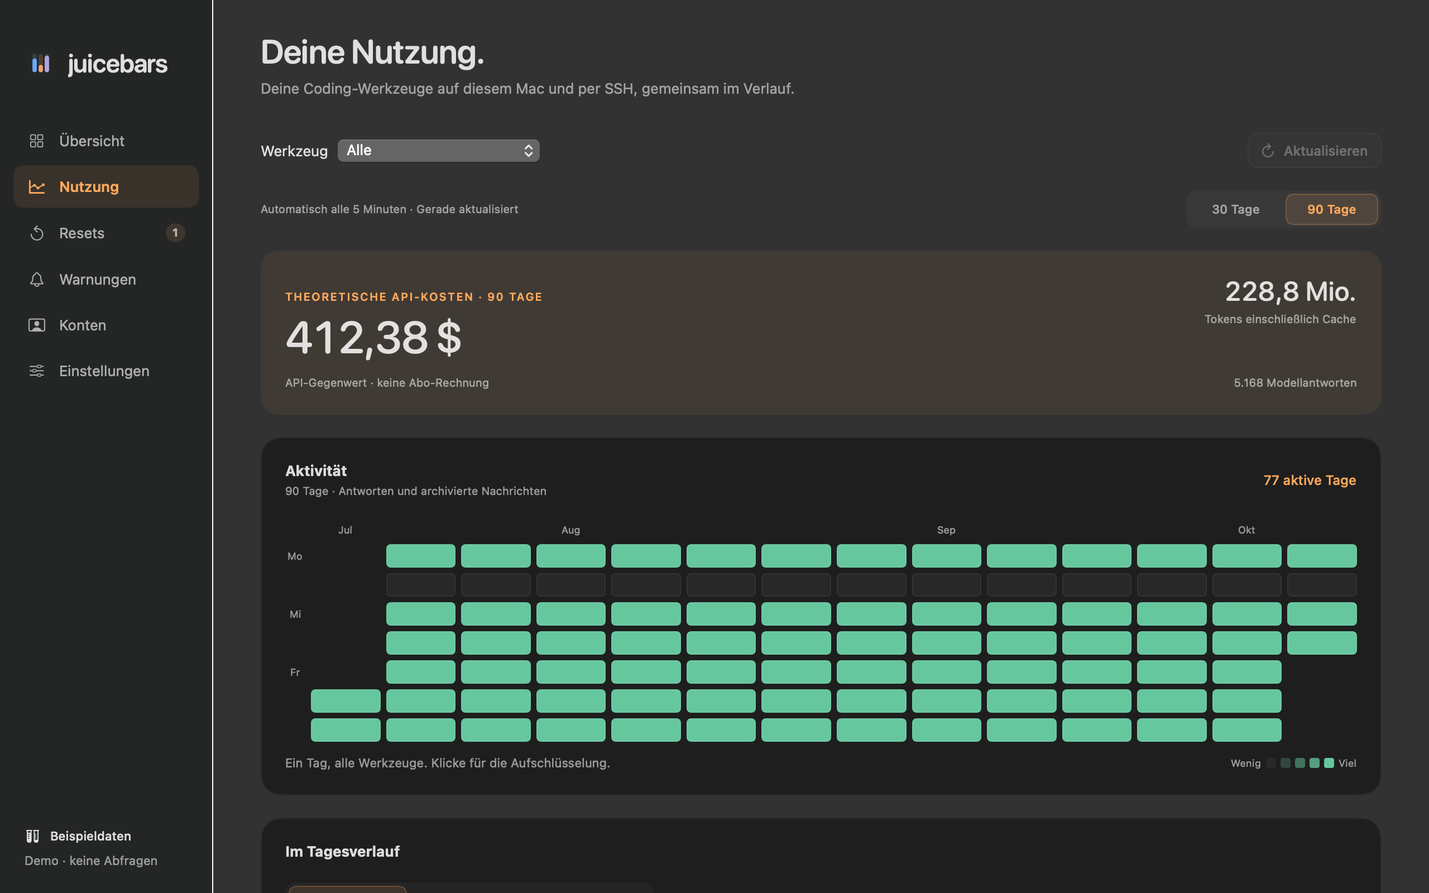
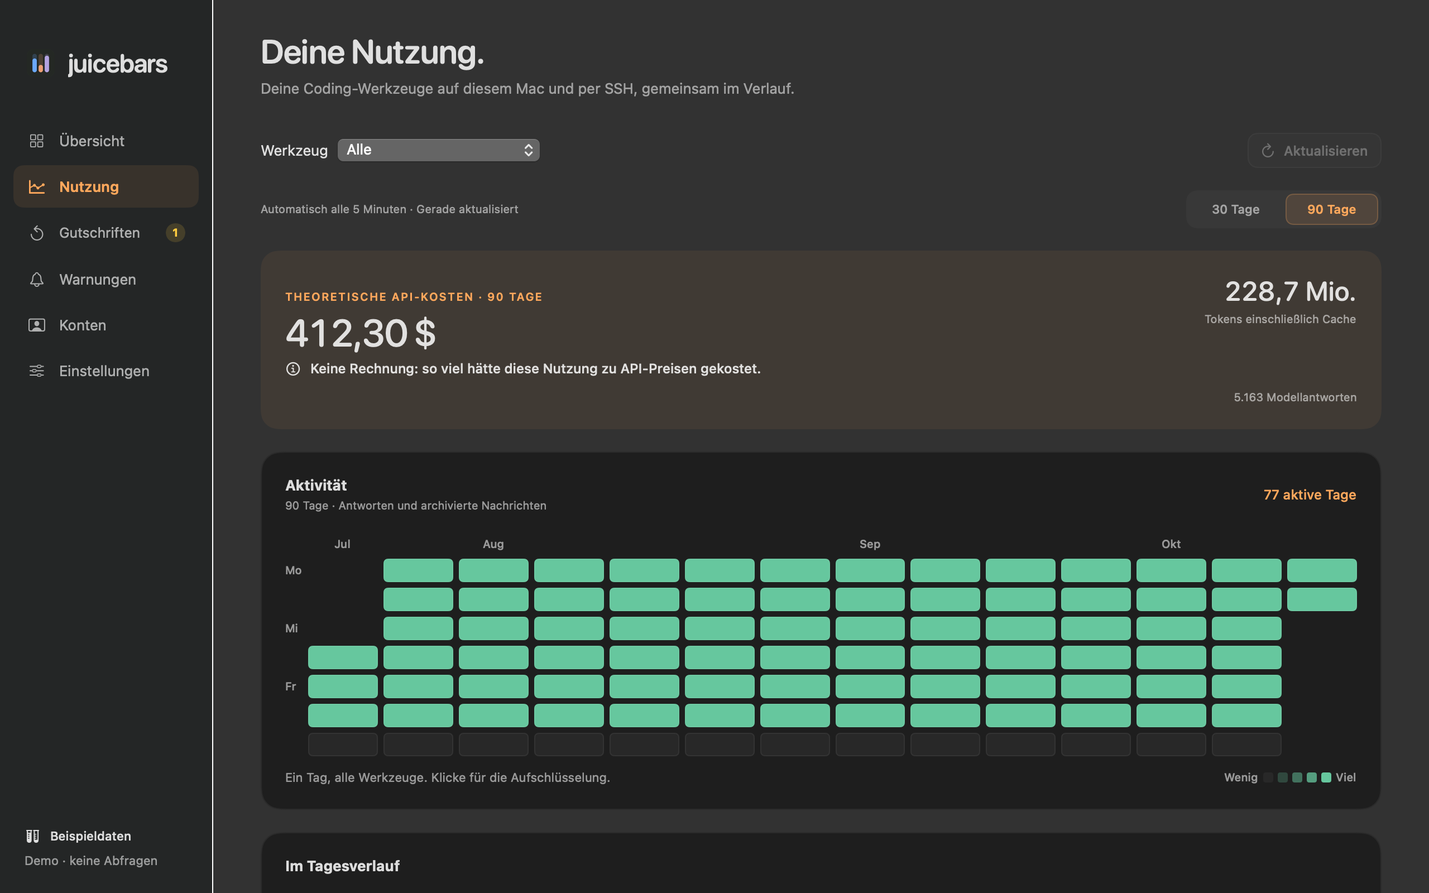
Publish 0.1.11 downloads and refresh screenshots
Screenshots now render with a fixed region per language, since dates and
numbers follow the host region since 0.1.11.

diff --git a/site/help.html b/site/help.html
@@ -1,1 +1,1 @@
-<!doctype html><html lang="en"><head><meta charset="utf-8"><meta name="viewport" content="width=device-width,initial-scale=1"><title>Setup & help · Juicebars</title><meta name="description" content="Install Juicebars, connect Codex, Claude and OpenCode, and understand your usage data."><link rel="icon" href="assets/juicebar.svg?v=juicebars"><link rel="stylesheet" href="style.css"></head><body><a class="skip" href="#main">Skip to content</a><header class="wrap"><a class="brand" href="./"><img src="assets/juicebar.svg?v=juicebars" alt="" width="30" height="30">juicebars</a><nav aria-label="Main"><a href="https://github.com/Rasalas/juicebar/issues">Report a problem <svg class="icon" viewBox="0 0 24 24" fill="none" stroke="currentColor" stroke-width="1.8" stroke-linecap="round" stroke-linejoin="round" aria-hidden="true" focusable="false"><path d="M14 3h7v7m0-7L10 14"/><path d="M10 3H4v17h17v-6"/></svg></a></nav></header><main id="main" class="wrap article"><h1>Setup & help.</h1><p>Juicebars uses the tools and accounts you already have. It does not require a separate account or send prompts to check your limits.</p><h2>Install on your Mac</h2><ol><li>Download <a href="https://github.com/Rasalas/juicebar/releases/download/v0.1.10/Juicebar-0.1.10-macOS-arm64.dmg">Juicebars 0.1.10 for Mac</a>. The current build requires Apple Silicon and macOS 14 or later.</li><li>Open the disk image and drag Juicebars to Applications. Eject the disk image, then open Juicebars from Applications.</li><li>Open Accounts and connect your providers. Enable notifications under Warnings when you are ready.</li></ol><p class="note">The official direct download is Developer ID signed and notarized. You should not need to disable Gatekeeper. Source builds are a separate option for contributors.</p><h2>Connect a provider</h2><details open><summary>ChatGPT / Codex subscription</summary><p>Install the <a href="https://developers.openai.com/codex/cli/">Codex CLI</a> and run <code>codex login</code> in Terminal. Choose your ChatGPT account. In Juicebars, add Codex and save. CLI paths are detected automatically; a custom program or profile folder can be set under Advanced setup.</p></details><details><summary>Claude subscription</summary><p>Install <a href="https://code.claude.com/docs/en/setup">Claude Code</a> and run <code>claude auth login</code>. Add Claude in Juicebars and save. The CLI must be signed in to the subscription you want to monitor. A browser-only sign-in is not enough. Juicebars prefers the native installation at <code>~/.local/bin/claude</code> when multiple copies are installed. You can select a specific CLI under Advanced setup.</p></details><details><summary>OpenCode Go</summary><p>Choose the correct account and workspace in the <a href="https://opencode.ai/console/">OpenCode console</a>. Juicebars can read an existing local <code>opencode-go</code> API key, or you can save a Go key in its account form. The form tells you when it finds a local key.</p><p>The newer <code>opencode console login</code> session is not yet a supported source for this quota integration. A 403 or EntitlementError means the key does not report Go access; check its workspace and subscription assignment. It does not, on its own, prove your paid subscription expired.</p></details><details><summary>OpenCode Zen and API accounts</summary><p>Zen activity comes from the local OpenCode database. Juicebars does not currently claim a verified Zen balance. OpenAI and Anthropic organization cost reports require an admin key; a normal model API key is not enough. OpenRouter uses a management key for account-wide balance.</p><p>These are separate from ChatGPT and Claude subscriptions. A budget entered in Juicebars is your warning budget, not a provider-imposed cap.</p></details><h2>Local usage history</h2><p>Usage imports Codex, Claude, OpenCode, Pi, Gemini CLI, Cline SDK v1, Roo Code, current Kilo and Qwen Code logs. Add a folder and select its format under Usage when your logs are outside the usual locations. Existing SSH hosts can supply the same supported formats remotely.</p><h2>Understand the numbers</h2><details><summary>Why is a quota line flat?</summary><p>Quota history records provider measurements from the time Juicebars starts collecting them. A flat line means the reported percentage did not change. Token logs cannot reconstruct subscription percentages.</p></details><details><summary>Where does the API cost come from?</summary><p>Juicebars estimates the API equivalent of recorded input, output and cache tokens at current standard prices. It shows coverage and leaves unknown models unpriced. This is not what you paid for a subscription. Confirmed model aliases and prices can update through a signed data catalog. That check can be disabled in Settings.</p></details><details><summary>Why are older chats or dates missing?</summary><p>Usage imports automatically at launch and every five minutes. Available local and SSH logs cover up to 90 days. Logs deleted before the first import, unconnected devices and browser-only chats may be absent. Older Claude daily statistics can fill gaps, but often lack enough detail for a cost estimate.</p></details><details><summary>How do I add another computer?</summary><p>Under Usage, add an existing SSH alias such as <code>workstation</code>. The host needs Python 3, a known host key and working key-based login. Juicebars rejects password prompts and does not install anything remotely. Only usage metadata is returned.</p></details><details><summary>Notifications appear only in Notification Center</summary><p>Allow Juicebars banners and sound in macOS System Settings → Notifications. Check Focus and screen-sharing settings too. Then enable notifications and sound inside Juicebars and send a test notification. macOS controls whether a banner can appear.</p></details><details><summary>Will updates cost money?</summary><p>No. Direct downloads and their updates stay free. Mac App Store distribution is on hold while equivalent, provider-compliant integrations remain unresolved.</p></details><h2>Something still looks wrong?</h2><p><a href="https://github.com/Rasalas/juicebar/issues">Open an issue</a> with your macOS version, Juicebars version, provider and what you expected to see. Redact account names from screenshots and never attach API keys, credentials or raw conversation logs.</p><p>For a security issue, use <a href="https://github.com/Rasalas/juicebar/security/advisories/new">private vulnerability reporting</a>.</p></main><footer class="wrap"><a href="./"><svg class="icon" viewBox="0 0 24 24" fill="none" stroke="currentColor" stroke-width="1.8" stroke-linecap="round" stroke-linejoin="round" aria-hidden="true" focusable="false"><path d="M20 12H4m6-6-6 6 6 6"/></svg> Back to Juicebars</a><a href="https://github.com/Rasalas/juicebar/blob/main/PRIVACY.md">Privacy</a></footer></body></html>
+<!doctype html><html lang="en"><head><meta charset="utf-8"><meta name="viewport" content="width=device-width,initial-scale=1"><title>Setup & help · Juicebars</title><meta name="description" content="Install Juicebars, connect Codex, Claude and OpenCode, and understand your usage data."><link rel="icon" href="assets/juicebar.svg?v=juicebars"><link rel="stylesheet" href="style.css"></head><body><a class="skip" href="#main">Skip to content</a><header class="wrap"><a class="brand" href="./"><img src="assets/juicebar.svg?v=juicebars" alt="" width="30" height="30">juicebars</a><nav aria-label="Main"><a href="https://github.com/Rasalas/juicebar/issues">Report a problem <svg class="icon" viewBox="0 0 24 24" fill="none" stroke="currentColor" stroke-width="1.8" stroke-linecap="round" stroke-linejoin="round" aria-hidden="true" focusable="false"><path d="M14 3h7v7m0-7L10 14"/><path d="M10 3H4v17h17v-6"/></svg></a></nav></header><main id="main" class="wrap article"><h1>Setup & help.</h1><p>Juicebars uses the tools and accounts you already have. It does not require a separate account or send prompts to check your limits.</p><h2>Install on your Mac</h2><ol><li>Download <a href="https://github.com/Rasalas/juicebar/releases/download/v0.1.11/Juicebar-0.1.11-macOS-arm64.dmg">Juicebars 0.1.11 for Mac</a>. The current build requires Apple Silicon and macOS 14 or later.</li><li>Open the disk image and drag Juicebars to Applications. Eject the disk image, then open Juicebars from Applications.</li><li>Open Accounts and connect your providers. Enable notifications under Warnings when you are ready.</li></ol><p class="note">The official direct download is Developer ID signed and notarized. You should not need to disable Gatekeeper. Source builds are a separate option for contributors.</p><h2>Connect a provider</h2><details open><summary>ChatGPT / Codex subscription</summary><p>Install the <a href="https://developers.openai.com/codex/cli/">Codex CLI</a> and run <code>codex login</code> in Terminal. Choose your ChatGPT account. In Juicebars, add Codex and save. CLI paths are detected automatically; a custom program or profile folder can be set under Advanced setup.</p></details><details><summary>Claude subscription</summary><p>Install <a href="https://code.claude.com/docs/en/setup">Claude Code</a> and run <code>claude auth login</code>. Add Claude in Juicebars and save. The CLI must be signed in to the subscription you want to monitor. A browser-only sign-in is not enough. Juicebars prefers the native installation at <code>~/.local/bin/claude</code> when multiple copies are installed. You can select a specific CLI under Advanced setup.</p></details><details><summary>OpenCode Go</summary><p>Choose the correct account and workspace in the <a href="https://opencode.ai/console/">OpenCode console</a>. Juicebars can read an existing local <code>opencode-go</code> API key, or you can save a Go key in its account form. The form tells you when it finds a local key.</p><p>The newer <code>opencode console login</code> session is not yet a supported source for this quota integration. A 403 or EntitlementError means the key does not report Go access; check its workspace and subscription assignment. It does not, on its own, prove your paid subscription expired.</p></details><details><summary>OpenCode Zen and API accounts</summary><p>Zen activity comes from the local OpenCode database. Juicebars does not currently claim a verified Zen balance. OpenAI and Anthropic organization cost reports require an admin key; a normal model API key is not enough. OpenRouter uses a management key for account-wide balance.</p><p>These are separate from ChatGPT and Claude subscriptions. A budget entered in Juicebars is your warning budget, not a provider-imposed cap.</p></details><h2>Local usage history</h2><p>Usage imports Codex, Claude, OpenCode, Pi, Gemini CLI, Cline SDK v1, Roo Code, current Kilo and Qwen Code logs. Add a folder and select its format under Usage when your logs are outside the usual locations. Existing SSH hosts can supply the same supported formats remotely.</p><h2>Understand the numbers</h2><details><summary>Why is a quota line flat?</summary><p>Quota history records provider measurements from the time Juicebars starts collecting them. A flat line means the reported percentage did not change. Token logs cannot reconstruct subscription percentages.</p></details><details><summary>Where does the API cost come from?</summary><p>Juicebars estimates the API equivalent of recorded input, output and cache tokens at current standard prices. It shows coverage and leaves unknown models unpriced. This is not what you paid for a subscription. Confirmed model aliases and prices can update through a signed data catalog. That check can be disabled in Settings.</p></details><details><summary>Why are older chats or dates missing?</summary><p>Usage imports automatically at launch and every five minutes. Available local and SSH logs cover up to 90 days. Logs deleted before the first import, unconnected devices and browser-only chats may be absent. Older Claude daily statistics can fill gaps, but often lack enough detail for a cost estimate.</p></details><details><summary>How do I add another computer?</summary><p>Under Usage, add an existing SSH alias such as <code>workstation</code>. The host needs Python 3, a known host key and working key-based login. Juicebars rejects password prompts and does not install anything remotely. Only usage metadata is returned.</p></details><details><summary>Notifications appear only in Notification Center</summary><p>Allow Juicebars banners and sound in macOS System Settings → Notifications. Check Focus and screen-sharing settings too. Then enable notifications and sound inside Juicebars and send a test notification. macOS controls whether a banner can appear.</p></details><details><summary>Will updates cost money?</summary><p>No. Direct downloads and their updates stay free. Mac App Store distribution is on hold while equivalent, provider-compliant integrations remain unresolved.</p></details><h2>Something still looks wrong?</h2><p><a href="https://github.com/Rasalas/juicebar/issues">Open an issue</a> with your macOS version, Juicebars version, provider and what you expected to see. Redact account names from screenshots and never attach API keys, credentials or raw conversation logs.</p><p>For a security issue, use <a href="https://github.com/Rasalas/juicebar/security/advisories/new">private vulnerability reporting</a>.</p></main><footer class="wrap"><a href="./"><svg class="icon" viewBox="0 0 24 24" fill="none" stroke="currentColor" stroke-width="1.8" stroke-linecap="round" stroke-linejoin="round" aria-hidden="true" focusable="false"><path d="M20 12H4m6-6-6 6 6 6"/></svg> Back to Juicebars</a><a href="https://github.com/Rasalas/juicebar/blob/main/PRIVACY.md">Privacy</a></footer></body></html>

diff --git a/site/index.html b/site/index.html
@@ -12,19 +12,19 @@
 <header class="wrap"><a class="brand" href="./"><img src="assets/juicebar.svg?v=juicebars" alt="" width="30" height="30">juicebars</a><nav aria-label="Main"><a href="#how">How it works</a><a href="help.html">Setup & help</a><a href="https://github.com/Rasalas/juicebar">Source <svg class="icon" viewBox="0 0 24 24" fill="none" stroke="currentColor" stroke-width="1.8" stroke-linecap="round" stroke-linejoin="round" aria-hidden="true" focusable="false"><path d="M14 3h7v7m0-7L10 14"/><path d="M10 3H4v17h17v-6"/></svg></a></nav></header>
 <main id="main">
 <section class="hero wrap">
-<div class="intro"><h1>Know<br>what’s <em>left.</em></h1><p class="lead">Codex. Claude. OpenCode.<br>Your limits together, with a heads-up before you run dry.</p><div class="actions"><a class="button" data-download href="https://github.com/Rasalas/juicebar/releases/download/v0.1.10/Juicebar-0.1.10-macOS-arm64.dmg"><span data-download-label>Download for Mac</span> <svg class="icon" viewBox="0 0 24 24" fill="none" stroke="currentColor" stroke-width="1.8" stroke-linecap="round" stroke-linejoin="round" aria-hidden="true" focusable="false"><path d="M12 3v12m-5-5 5 5 5-5"/><path d="M5 15v5h14v-5"/></svg></a><a class="quiet" href="#how">Take a look <svg class="icon" viewBox="0 0 24 24" fill="none" stroke="currentColor" stroke-width="1.8" stroke-linecap="round" stroke-linejoin="round" aria-hidden="true" focusable="false"><path d="M7 7l10 10M7 17h10V7"/></svg></a></div><p class="small"><span data-download-status>Apple Silicon · macOS 14 or later</span><br>Free · Version 0.1.10 · Signed & notarized</p><details class="download-options"><summary>Downloads</summary><a href="https://github.com/Rasalas/juicebar/releases/download/v0.1.10/Juicebar-0.1.10-macOS-arm64.dmg">Mac · Apple Silicon <span>0.1.10 · DMG, 2.8 MB</span></a><p>Intel, Windows and Linux builds are not available yet.</p></details><p class="release-links"><a href="https://github.com/Rasalas/juicebar/releases/tag/v0.1.10">Release notes</a><a href="https://github.com/Rasalas/juicebar/releases/download/v0.1.10/SHA256SUMS.txt">SHA-256 checksum</a></p></div>
+<div class="intro"><h1>Know<br>what’s <em>left.</em></h1><p class="lead">Codex. Claude. OpenCode.<br>Your limits together, with a heads-up before you run dry.</p><div class="actions"><a class="button" data-download href="https://github.com/Rasalas/juicebar/releases/download/v0.1.11/Juicebar-0.1.11-macOS-arm64.dmg"><span data-download-label>Download for Mac</span> <svg class="icon" viewBox="0 0 24 24" fill="none" stroke="currentColor" stroke-width="1.8" stroke-linecap="round" stroke-linejoin="round" aria-hidden="true" focusable="false"><path d="M12 3v12m-5-5 5 5 5-5"/><path d="M5 15v5h14v-5"/></svg></a><a class="quiet" href="#how">Take a look <svg class="icon" viewBox="0 0 24 24" fill="none" stroke="currentColor" stroke-width="1.8" stroke-linecap="round" stroke-linejoin="round" aria-hidden="true" focusable="false"><path d="M7 7l10 10M7 17h10V7"/></svg></a></div><p class="small"><span data-download-status>Apple Silicon · macOS 14 or later</span><br>Free · Version 0.1.11 · Signed & notarized</p><details class="download-options"><summary>Downloads</summary><a href="https://github.com/Rasalas/juicebar/releases/download/v0.1.11/Juicebar-0.1.11-macOS-arm64.dmg">Mac · Apple Silicon <span>0.1.11 · DMG, 2.8 MB</span></a><p>Intel, Windows and Linux builds are not available yet.</p></details><p class="release-links"><a href="https://github.com/Rasalas/juicebar/releases/tag/v0.1.11">Release notes</a><a href="https://github.com/Rasalas/juicebar/releases/download/v0.1.11/SHA256SUMS.txt">SHA-256 checksum</a></p></div>
 <div class="hero-art"><div class="menubar" role="img" aria-label="Menu bar preview with actual Juicebars artwork. From right to left: battery, date and time, Control Center, Wi-Fi, and Juicebars's Codex, Claude and OpenCode quota bars.">
   <img height="44" width="126" class="menu-limits" src="assets/menu-limits.png" alt="">
   <svg class="system-icon wifi" viewBox="0 0 24 18" aria-hidden="true"><g fill="none" stroke="currentColor" stroke-width="2.4" stroke-linecap="round"><path d="M2 5a16 16 0 0 1 20 0M5.5 9a10.5 10.5 0 0 1 13 0M9 13a5 5 0 0 1 6 0"/></g><circle cx="12" cy="16" r="1.3" fill="currentColor"/></svg>
   <svg class="system-icon control-center" viewBox="0 0 22 20" aria-hidden="true"><rect x="1" y="1" width="20" height="7" rx="3.5" fill="currentColor"/><circle cx="5" cy="4.5" r="2.2" fill="#444a43"/><rect x="1.7" y="12.7" width="18.6" height="5.6" rx="2.8" stroke="currentColor" stroke-width="1.4" fill="none"/><circle cx="17" cy="15.5" r="2" fill="currentColor"/></svg>
   <span class="menu-date">Fri 25 Sep <span>09:41</span></span>
   <svg class="system-icon battery" viewBox="0 0 29 14" aria-hidden="true"><rect x="1" y="1" width="24" height="12" rx="3" stroke="currentColor" stroke-opacity=".65" stroke-width="1.3" fill="none"/><rect x="3" y="3" width="17" height="8" rx="1.4" fill="currentColor"/><path d="M27 5v4" stroke="currentColor" stroke-width="2" stroke-linecap="round"/></svg>
-</div><img height="1360" width="760" class="tray" src="assets/tray.png" alt="Juicebars popover with remaining quotas, reset times and even-pace markers for Codex, Claude and OpenCode Go."><p class="caption">App preview, sample data. System icons illustrated.</p></div>
+</div><img height="1408" width="760" class="tray" src="assets/tray.png" alt="Juicebars popover with remaining quotas, reset times and even-pace markers for Codex, Claude and OpenCode Go."><p class="caption">App preview, sample data. System icons illustrated.</p></div>
 </section>
 <section id="how" class="wrap feature"><div><h2>Limits and reset times.</h2><p>The bars drain as you work. The diamond shows where an even usage pace would put you. Choose which limits belong in your menu bar, without a row of names and percentages.</p><p>Set a usage threshold, a pace warning or a forecast window. Get a reminder when a banked reset is about to expire, where your provider reports that date.</p></div><figure class="wide"><img height="1600" width="2560" src="assets/overview.png" loading="lazy" alt="Juicebars overview showing Codex and Claude quotas side by side, plus an expiring reset warning."><figcaption>English and German interface. Light and dark appearance. Sample data shown.</figcaption></figure></section>
 <section class="wrap feature"><div><h2>Usage and API costs.</h2><p>Daily charts and an activity calendar bring Codex, Claude, OpenCode, Pi, Gemini CLI, Cline, Roo Code, Kilo and Qwen Code logs together. Add a local source folder or an existing SSH host to include more of your work.</p><p>See the theoretical API value of your token usage, with cache pricing and clear coverage when a model has no known price. It is an estimate, never a subscription bill.</p></div><figure class="wide"><img height="1600" width="2560" src="assets/usage.png" loading="lazy" alt="Usage dashboard with theoretical API costs, activity calendar and daily usage chart."><figcaption>Usage imports automatically. Previously collected metadata remains available for 90 days.</figcaption></figure></section>
 <section class="wrap details"><div><h2>Your data stays on your Mac.</h2></div><dl><dt>No conversation archive</dt><dd>Juicebars reads local logs to extract usage metadata. It does not store or upload your prompts and responses.</dd><dt>Direct provider connections</dt><dd>Your existing CLI sign-ins and keys stay on your Mac. Requests go to the provider concerned, without a Juicebars server in between.</dd><dt>Updates without a paywall</dt><dd>The app and its updates are free. Check for new versions automatically and install them through the built-in updater. Contributions support continued maintenance.</dd></dl></section>
-<section class="wrap last"><h2>Juicebars for Mac.</h2><a class="button" data-download href="https://github.com/Rasalas/juicebar/releases/download/v0.1.10/Juicebar-0.1.10-macOS-arm64.dmg"><span data-download-label>Download for Mac</span> <svg class="icon" viewBox="0 0 24 24" fill="none" stroke="currentColor" stroke-width="1.8" stroke-linecap="round" stroke-linejoin="round" aria-hidden="true" focusable="false"><path d="M12 3v12m-5-5 5 5 5-5"/><path d="M5 15v5h14v-5"/></svg></a><p class="small"><span data-download-status>Apple Silicon · macOS 14 or later</span><br><a href="#main">All downloads</a></p></section>
+<section class="wrap last"><h2>Juicebars for Mac.</h2><a class="button" data-download href="https://github.com/Rasalas/juicebar/releases/download/v0.1.11/Juicebar-0.1.11-macOS-arm64.dmg"><span data-download-label>Download for Mac</span> <svg class="icon" viewBox="0 0 24 24" fill="none" stroke="currentColor" stroke-width="1.8" stroke-linecap="round" stroke-linejoin="round" aria-hidden="true" focusable="false"><path d="M12 3v12m-5-5 5 5 5-5"/><path d="M5 15v5h14v-5"/></svg></a><p class="small"><span data-download-status>Apple Silicon · macOS 14 or later</span><br><a href="#main">All downloads</a></p></section>
 </main>
 <footer class="wrap"><span>Made by <a href="https://github.com/Rasalas">Rasalas</a> & contributors</span><nav aria-label="Footer"><a href="help.html">Help</a><a href="https://github.com/Rasalas/juicebar/blob/main/PRIVACY.md">Privacy</a><a href="https://github.com/Rasalas/juicebar/blob/main/LICENSE">MIT license</a><a href="https://github.com/sponsors/Rasalas">Support the project <svg class="icon" viewBox="0 0 24 24" fill="none" stroke="currentColor" stroke-width="1.8" stroke-linecap="round" stroke-linejoin="round" aria-hidden="true" focusable="false"><path d="M14 3h7v7m0-7L10 14"/><path d="M10 3H4v17h17v-6"/></svg></a></nav></footer>
 </body></html>

diff --git a/scripts/update-screenshots.py b/scripts/update-screenshots.py
@@ -56,7 +56,9 @@ def main():
         for language in ("en", "de"):
             working = Path(temporary) / language
             working.mkdir()
-            subprocess.run([str(binary), "--render-previews", f"--language={language}"],
+            # Formats follow the host region; pin one so screenshots don't depend on this Mac.
+            region = {"en": "en_US", "de": "de_DE"}[language]
+            subprocess.run([str(binary), "--render-previews", f"--language={language}", "-AppleLocale", region],
                            cwd=working, env=env, check=True)
             previews = working / ".artifacts/previews"
             for page in ("overview", "usage"):

diff --git a/docs/validation.md b/docs/validation.md
@@ -1,5 +1,13 @@
 # Validation status · 25 September 2026
 
+## Juicebars 0.1.11 release, 20 October
+
+Version 0.1.11, build 13, contains PRs [#5](https://github.com/Rasalas/juicebar/pull/5) to [#9](https://github.com/Rasalas/juicebar/pull/9): reliability fixes, lower idle cost, incremental activity imports, the UI/UX review fixes and the weekly target. Each merge into a branch with conflicts was resolved and tested locally before merging; the final merged tree ran 151 Swift tests (6 benchmarks skipped) and passed tray layout in both languages. Main CI passed for every merge.
+
+The app and DMG passed Developer ID signing, Apple notarization, stapling and Gatekeeper assessment. Both checksum entries passed, all four downloaded draft assets matched the local originals, and the public ZIP matched after publishing. The Sparkle archive verified against the public key, while changing one byte caused rejection. Tray layout and activity persistence checks passed in the signed bundle. The stable feed serves build 13.
+
+No old-to-new Sparkle update or failed-download test was run before publishing; the installed 0.1.10 is updated through the public feed instead. English and German screenshots were refreshed with a pinned region per language. Live VoiceOver and installation on a second Mac remain unverified.
+
 ## Juicebars 0.1.10 release, 15 October
 
 Version 0.1.10, build 12, includes the review fixes and CPU improvements documented below. [PR #4](https://github.com/Rasalas/juicebar/pull/4) was merged after both macOS checks passed. Main and tag CI also passed: 106 regular Swift tests, nine Python collector tests, tray layout in both scrollbar modes, persistence, source packaging and direct-updater compilation. The new recovery test initially failed on the English CI host because it expected a German word; its assertion now uses the active translation.
